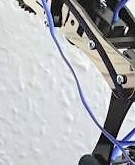
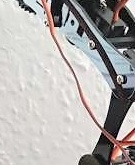
fixing RGB to BRG conversion

diff --git a/2. Basic Image Processing/3. Generating Transformations/Project Random Complex Transformations/rand_geometrical_transformations.py b/2. Basic Image Processing/3. Generating Transformations/Project Random Complex Transformations/rand_geometrical_transformations.py
@@ -14,7 +14,8 @@ import random
 def saving_image(image, output, image_name):
     #save your image to output path using opencv
     path = output
-    cv2.imwrite(os.path.join(path, image_name), image)
+    im_bgr = cv2.cvtColor(image, cv2.COLOR_RGB2BGR)
+    cv2.imwrite(os.path.join(path, image_name), im_bgr)
     cv2.waitKey(0)
 
 # function block
@@ -62,7 +63,7 @@ def substract(image, output):
     #  substract stuff
     M = np.ones(image.shape, dtype = "uint8") * 50
     subtracted = cv2.subtract(image, M)
-   # subtracted = np.flip(subtracted, axis =2)
+    # subtracted = np.flip(subtracted, axis =2)
     plt.figure(figsize=(20,10))
     plt.subplot(2,2,2),plt.imshow(subtracted)
     plt.title('Subtracted'), plt.xticks([]), plt.yticks([])
@@ -76,7 +77,7 @@ def translate(image, output):
     print("TRANSLATING...")
     M = np.float32([[1, 0, 25], [0, 1, 50]])
     shifted = cv2.warpAffine(image, M, (image.shape[1], image.shape[0]))
-   # shifted = np.flip(shifted, axis =2)
+    # shifted = np.flip(shifted, axis =2)
     plt.figure(figsize=(20,10))
     plt.subplot(1,2,2),plt.imshow(shifted)
     plt.title('Translated'), plt.xticks([]), plt.yticks([])
@@ -94,7 +95,7 @@ def scale(image, output):
 
     resized = cv2.resize(image, dim, interpolation=cv2.INTER_AREA)
     print(f'Original shape: {image.shape} vs Resized shape {resized.shape}')
-  #  resized = np.flip(resized, axis =2)
+    #  resized = np.flip(resized, axis =2)
     plt.figure(figsize=(20,10))
     plt.subplot(1,2,1), plt.imshow(image) 
     plt.title('Original')
@@ -121,7 +122,7 @@ def flipTwo(image, output):
     print("FLIPPING VERTICALLY...")
     # flip the image vertically
     vflipped = cv2.flip(image, 0) 
-  #  vflipped = np.flip(vflipped, axis = 2)  
+    #  vflipped = np.flip(vflipped, axis = 2)  
     plt.figure(figsize=(20,10))
     plt.subplot(2,2,3),plt.imshow(vflipped)
     plt.title('Flipped Vertically'), plt.xticks([]), plt.yticks([])
@@ -132,7 +133,7 @@ def flipThree(image, output):
     print("FLIPPING HORIZONTALLY & VERTICALLY...")
     # flip the image along both axes
     hvflipped = cv2.flip(image, -1)
-   # hvflipped = np.flip(hvflipped, axis =2)
+    # hvflipped = np.flip(hvflipped, axis =2)
     plt.figure(figsize=(20,10))
     plt.subplot(2,2,4),plt.imshow(hvflipped)
     plt.title('Flipped Horizontally & Vertically'), plt.xticks([]), plt.yticks([])
@@ -143,10 +144,10 @@ def mask(image, output):
     # mask stuff
     print("MASKING...")
 
- #   mask = np.zeros(image.shape[:2], dtype="uint8")
+    #   mask = np.zeros(image.shape[:2], dtype="uint8")
     cv2.circle(mask, (145, 200), 100, 255, -1)
     masked = cv2.bitwise_and(image, image, mask=mask)
-    masked = np.flip(masked, axis = 2)
+    # masked = np.flip(masked, axis = 2)
     plt.subplot(1,2,2),plt.imshow(masked)
     plt.title("Masked"), plt.xticks([]), plt.yticks([])
     plt.show()
